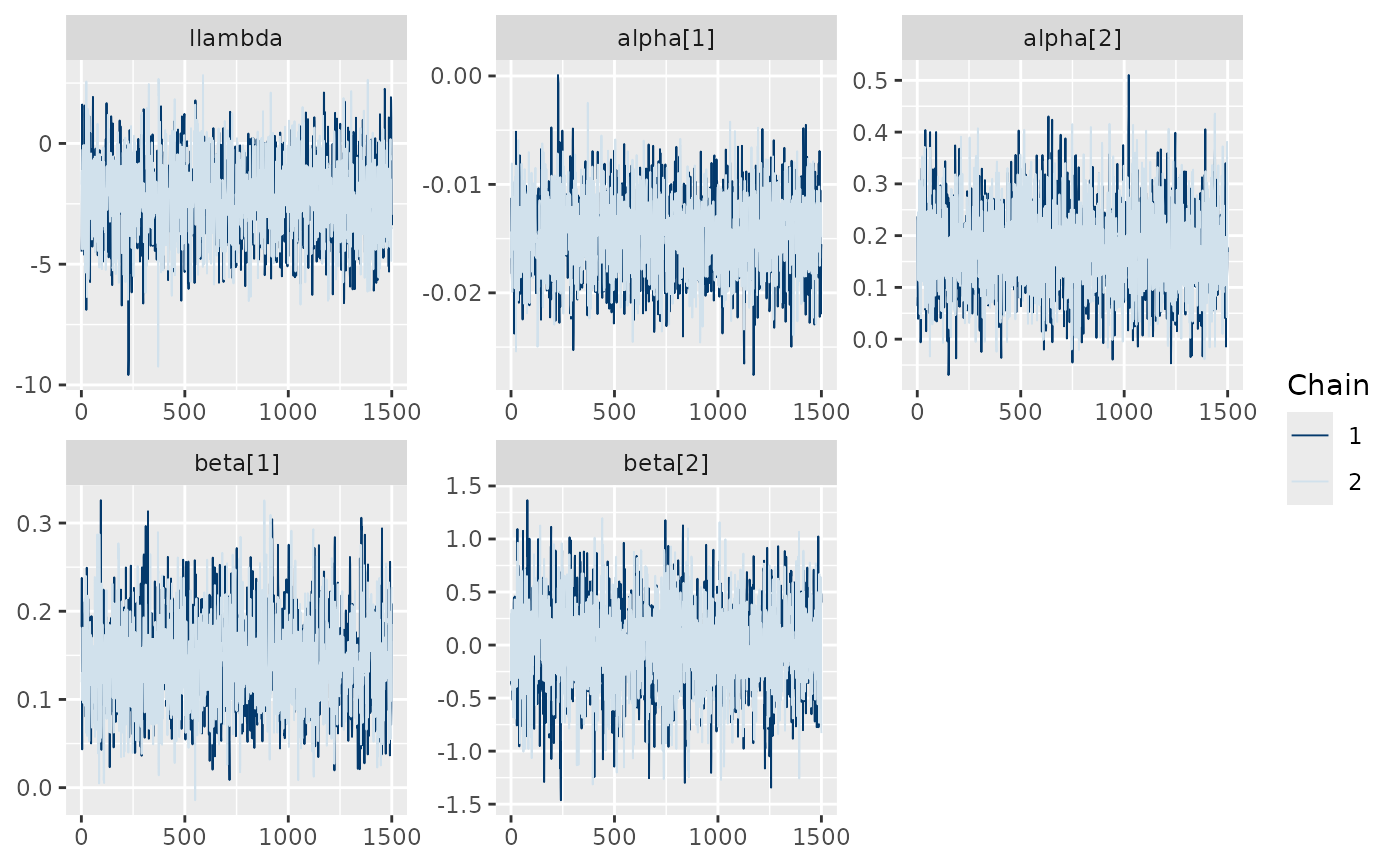
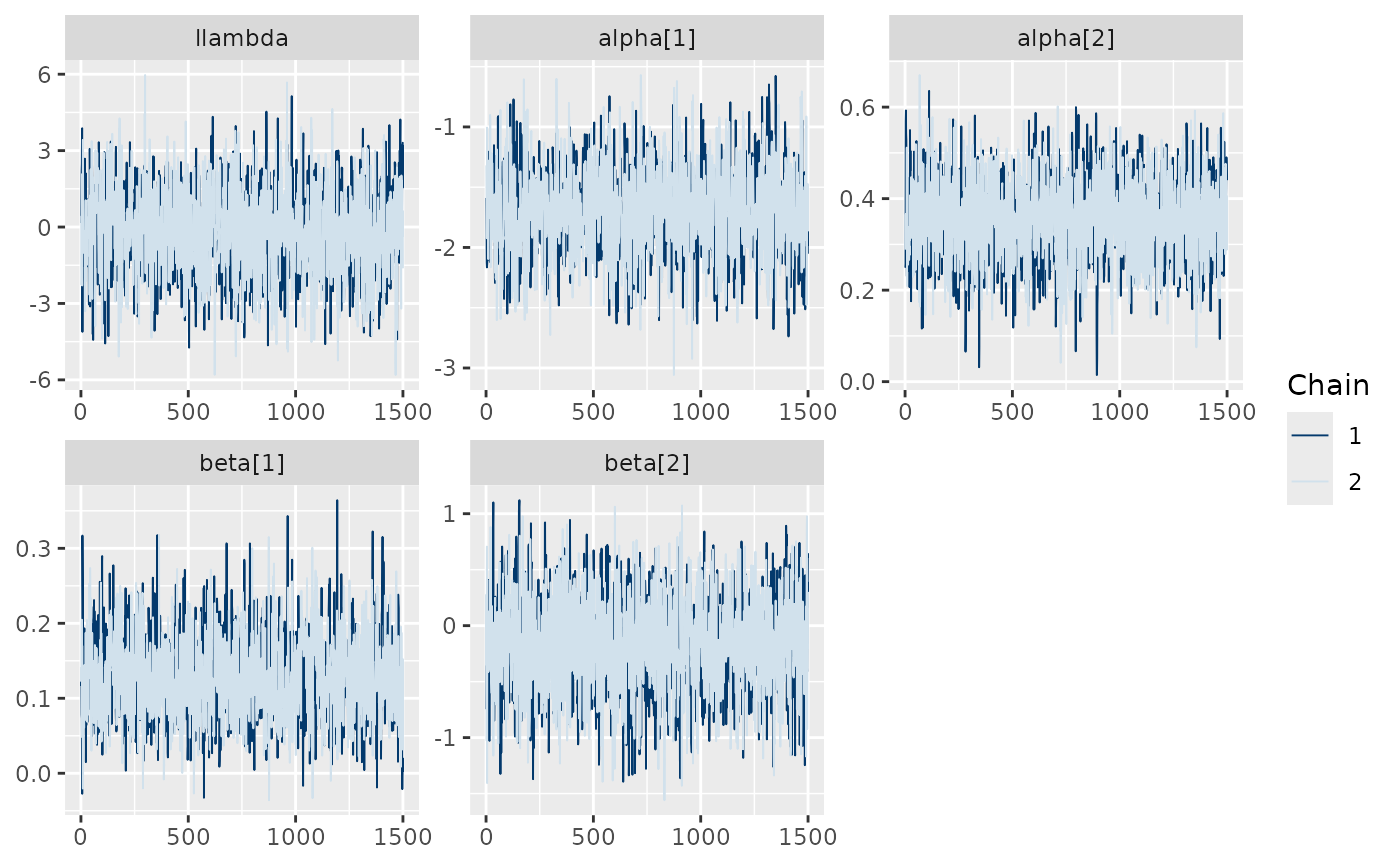
Deploying to gh-pages from @ Jiangyue-Wang/MortalMove@563e27e3fafab5bc3a241301246cef460ec37dc8 🚀

diff --git a/articles/fit-model-cmdstan.html b/articles/fit-model-cmdstan.html
@@ -129,30 +129,30 @@
 <span><span class="co">#&gt; - Online documentation and vignettes at mc-stan.org/loo</span></span>
 <span><span class="co">#&gt; - As of v2.0.0 loo defaults to 1 core but we recommend using as many as possible. Use the 'cores' argument or set options(mc.cores = NUM_CORES) for an entire session.</span></span>
 <span><span class="co">#&gt; <span style="color: #949494;"># A tibble: 5 × 5</span></span></span>
-<span><span class="co">#&gt;   variable    mean      sd      q5      q95</span></span>
-<span><span class="co">#&gt;   <span style="color: #949494; font-style: italic;">&lt;chr&gt;</span>      <span style="color: #949494; font-style: italic;">&lt;dbl&gt;</span>   <span style="color: #949494; font-style: italic;">&lt;dbl&gt;</span>   <span style="color: #949494; font-style: italic;">&lt;dbl&gt;</span>    <span style="color: #949494; font-style: italic;">&lt;dbl&gt;</span></span></span>
-<span><span class="co">#&gt; <span style="color: #BCBCBC;">1</span> beta[1]   0.143  0.050<span style="text-decoration: underline;">8</span>   0.062<span style="text-decoration: underline;">4</span>  0.230  </span></span>
-<span><span class="co">#&gt; <span style="color: #BCBCBC;">2</span> beta[2]  -<span style="color: #BB0000;">0.022</span><span style="color: #BB0000; text-decoration: underline;">8</span> 0.421   -<span style="color: #BB0000;">0.734</span>   0.651  </span></span>
-<span><span class="co">#&gt; <span style="color: #BCBCBC;">3</span> alpha[1] -<span style="color: #BB0000;">0.014</span><span style="color: #BB0000; text-decoration: underline;">6</span> 0.003<span style="text-decoration: underline;">62</span> -<span style="color: #BB0000;">0.020</span><span style="color: #BB0000; text-decoration: underline;">5</span> -<span style="color: #BB0000;">0.008</span><span style="color: #BB0000; text-decoration: underline;">65</span></span></span>
-<span><span class="co">#&gt; <span style="color: #BCBCBC;">4</span> alpha[2]  0.176  0.082<span style="text-decoration: underline;">8</span>   0.042<span style="text-decoration: underline;">4</span>  0.317  </span></span>
-<span><span class="co">#&gt; <span style="color: #BCBCBC;">5</span> llambda  -<span style="color: #BB0000;">2.27</span>   1.61    -<span style="color: #BB0000;">4.92</span>    0.329  </span></span>
+<span><span class="co">#&gt;   variable   mean     sd      q5    q95</span></span>
+<span><span class="co">#&gt;   <span style="color: #949494; font-style: italic;">&lt;chr&gt;</span>     <span style="color: #949494; font-style: italic;">&lt;dbl&gt;</span>  <span style="color: #949494; font-style: italic;">&lt;dbl&gt;</span>   <span style="color: #949494; font-style: italic;">&lt;dbl&gt;</span>  <span style="color: #949494; font-style: italic;">&lt;dbl&gt;</span></span></span>
+<span><span class="co">#&gt; <span style="color: #BCBCBC;">1</span> beta[1]   0.130 0.054<span style="text-decoration: underline;">8</span>  0.046<span style="text-decoration: underline;">8</span>  0.223</span></span>
+<span><span class="co">#&gt; <span style="color: #BCBCBC;">2</span> beta[2]  -<span style="color: #BB0000;">0.169</span> 0.422  -<span style="color: #BB0000;">0.882</span>   0.519</span></span>
+<span><span class="co">#&gt; <span style="color: #BCBCBC;">3</span> alpha[1] -<span style="color: #BB0000;">1.71</span>  0.348  -<span style="color: #BB0000;">2.26</span>   -<span style="color: #BB0000;">1.13</span> </span></span>
+<span><span class="co">#&gt; <span style="color: #BCBCBC;">4</span> alpha[2]  0.354 0.088<span style="text-decoration: underline;">7</span>  0.208   0.496</span></span>
+<span><span class="co">#&gt; <span style="color: #BCBCBC;">5</span> llambda  -<span style="color: #BB0000;">0.195</span> 1.67   -<span style="color: #BB0000;">3.01</span>    2.49 </span></span>
 <span><span class="co">#&gt; </span></span>
 <span><span class="co">#&gt; --- Rhat and ESS Summary ---</span></span>
 <span><span class="co">#&gt; <span style="color: #949494;"># A tibble: 5 × 4</span></span></span>
 <span><span class="co">#&gt;   variable  rhat ess_bulk ess_tail</span></span>
 <span><span class="co">#&gt;   <span style="color: #949494; font-style: italic;">&lt;chr&gt;</span>    <span style="color: #949494; font-style: italic;">&lt;dbl&gt;</span>    <span style="color: #949494; font-style: italic;">&lt;dbl&gt;</span>    <span style="color: #949494; font-style: italic;">&lt;dbl&gt;</span></span></span>
-<span><span class="co">#&gt; <span style="color: #BCBCBC;">1</span> beta[1]  1.00     <span style="text-decoration: underline;">2</span>065.    <span style="text-decoration: underline;">1</span>799.</span></span>
-<span><span class="co">#&gt; <span style="color: #BCBCBC;">2</span> beta[2]  1.00     <span style="text-decoration: underline;">1</span>725.    <span style="text-decoration: underline;">1</span>577.</span></span>
-<span><span class="co">#&gt; <span style="color: #BCBCBC;">3</span> alpha[1] 1.000    <span style="text-decoration: underline;">2</span>202.    <span style="text-decoration: underline;">1</span>880.</span></span>
-<span><span class="co">#&gt; <span style="color: #BCBCBC;">4</span> alpha[2] 1.00     <span style="text-decoration: underline;">2</span>153.    <span style="text-decoration: underline;">1</span>706.</span></span>
-<span><span class="co">#&gt; <span style="color: #BCBCBC;">5</span> llambda  1.00     <span style="text-decoration: underline;">2</span>160.    <span style="text-decoration: underline;">1</span>913.</span></span>
+<span><span class="co">#&gt; <span style="color: #BCBCBC;">1</span> beta[1]   1.00    <span style="text-decoration: underline;">1</span>605.    <span style="text-decoration: underline;">1</span>934.</span></span>
+<span><span class="co">#&gt; <span style="color: #BCBCBC;">2</span> beta[2]   1.00    <span style="text-decoration: underline;">2</span>407.    <span style="text-decoration: underline;">1</span>981.</span></span>
+<span><span class="co">#&gt; <span style="color: #BCBCBC;">3</span> alpha[1]  1.00    <span style="text-decoration: underline;">1</span>558.    <span style="text-decoration: underline;">1</span>634.</span></span>
+<span><span class="co">#&gt; <span style="color: #BCBCBC;">4</span> alpha[2]  1.00    <span style="text-decoration: underline;">2</span>055.    <span style="text-decoration: underline;">1</span>564.</span></span>
+<span><span class="co">#&gt; <span style="color: #BCBCBC;">5</span> llambda   1.00    <span style="text-decoration: underline;">1</span>634.    <span style="text-decoration: underline;">1</span>593.</span></span>
 <span><span class="co">#&gt; </span></span>
 <span><span class="co">#&gt; Computed from 3000 by 100 log-likelihood matrix.</span></span>
 <span><span class="co">#&gt; </span></span>
 <span><span class="co">#&gt;          Estimate   SE</span></span>
-<span><span class="co">#&gt; elpd_loo   -139.7 25.6</span></span>
-<span><span class="co">#&gt; p_loo         2.8  0.6</span></span>
-<span><span class="co">#&gt; looic       279.4 51.3</span></span>
+<span><span class="co">#&gt; elpd_loo   -132.9 25.1</span></span>
+<span><span class="co">#&gt; p_loo         2.3  0.5</span></span>
+<span><span class="co">#&gt; looic       265.7 50.1</span></span>
 <span><span class="co">#&gt; ------</span></span>
 <span><span class="co">#&gt; MCSE of elpd_loo is 0.0.</span></span>
 <span><span class="co">#&gt; MCSE and ESS estimates assume independent draws (r_eff=1).</span></span>
@@ -163,7 +163,7 @@
 <span><span class="co">#&gt; Posterior predictive p-value summary:</span></span>
 <span><span class="co">#&gt;   variable p_value</span></span>
 <span><span class="co">#&gt; 1   Failed  0.3000</span></span>
-<span><span class="co">#&gt; 2 Censored  0.7625</span></span>
+<span><span class="co">#&gt; 2 Censored  0.7125</span></span>
 <span><span class="fu">bayesplot</span><span class="fu">::</span><span class="fu"><a href="https://mc-stan.org/bayesplot/reference/MCMC-traces.html" class="external-link">mcmc_trace</a></span><span class="op">(</span><span class="va">fit</span><span class="op">$</span><span class="fu">draws</span><span class="op">(</span><span class="fu"><a href="https://rdrr.io/r/base/c.html" class="external-link">c</a></span><span class="op">(</span><span class="st">"llambda"</span>,<span class="st">"alpha"</span>,<span class="st">"beta"</span><span class="op">)</span><span class="op">)</span><span class="op">)</span></span></code></pre></div>
 <p><img src="fit-model-cmdstan_files/figure-html/unnamed-chunk-5-1.png" width="700"></p>
 </div>
@@ -181,48 +181,48 @@
 <span>  data <span class="op">=</span> <span class="va">sim</span>,</span>
 <span>  chains <span class="op">=</span> <span class="fl">2</span>,</span>
 <span>  parallel_chains <span class="op">=</span> <span class="fl">2</span>,</span>
-<span>  iter_warmup <span class="op">=</span> <span class="fl">50</span>,</span>
-<span>  iter_sampling <span class="op">=</span> <span class="fl">150</span>,</span>
+<span>  iter_warmup <span class="op">=</span> <span class="fl">500</span>,</span>
+<span>  iter_sampling <span class="op">=</span> <span class="fl">1500</span>,</span>
 <span>  seed <span class="op">=</span> <span class="fl">123</span></span>
 <span><span class="op">)</span></span></code></pre></div>
 <div class="sourceCode" id="cb6"><pre class="downlit sourceCode r">
 <code class="sourceCode R"><span><span class="fu"><a href="../reference/diagnostic_fit.html">diagnostic_fit</a></span><span class="op">(</span><span class="va">fit_spat</span>, plot <span class="op">=</span> <span class="cn">TRUE</span>, observed_y <span class="op">=</span> <span class="fu"><a href="https://rdrr.io/r/base/colSums.html" class="external-link">rowSums</a></span><span class="op">(</span><span class="va">sim</span><span class="op">$</span><span class="va">time_step</span>, na.rm <span class="op">=</span> <span class="cn">TRUE</span><span class="op">)</span>, delta <span class="op">=</span> <span class="va">sim</span><span class="op">$</span><span class="va">delta</span><span class="op">)</span></span>
 <span><span class="co">#&gt; <span style="color: #949494;"># A tibble: 5 × 5</span></span></span>
-<span><span class="co">#&gt;   variable    mean      sd      q5     q95</span></span>
-<span><span class="co">#&gt;   <span style="color: #949494; font-style: italic;">&lt;chr&gt;</span>      <span style="color: #949494; font-style: italic;">&lt;dbl&gt;</span>   <span style="color: #949494; font-style: italic;">&lt;dbl&gt;</span>   <span style="color: #949494; font-style: italic;">&lt;dbl&gt;</span>   <span style="color: #949494; font-style: italic;">&lt;dbl&gt;</span></span></span>
-<span><span class="co">#&gt; <span style="color: #BCBCBC;">1</span> beta[1]   0.139  0.056<span style="text-decoration: underline;">4</span>   0.053<span style="text-decoration: underline;">6</span>  0.243 </span></span>
-<span><span class="co">#&gt; <span style="color: #BCBCBC;">2</span> beta[2]   0.036<span style="text-decoration: underline;">3</span> 0.424   -<span style="color: #BB0000;">0.608</span>   0.728 </span></span>
-<span><span class="co">#&gt; <span style="color: #BCBCBC;">3</span> alpha[1] -<span style="color: #BB0000;">0.018</span><span style="color: #BB0000; text-decoration: underline;">5</span> 0.003<span style="text-decoration: underline;">33</span> -<span style="color: #BB0000;">0.023</span><span style="color: #BB0000; text-decoration: underline;">3</span> -<span style="color: #BB0000;">0.012</span><span style="color: #BB0000; text-decoration: underline;">6</span></span></span>
-<span><span class="co">#&gt; <span style="color: #BCBCBC;">4</span> alpha[2]  0.214  0.118    0.010<span style="text-decoration: underline;">0</span>  0.403 </span></span>
-<span><span class="co">#&gt; <span style="color: #BCBCBC;">5</span> llambda  -<span style="color: #BB0000;">0.881</span>  1.22    -<span style="color: #BB0000;">3.18</span>    0.828 </span></span>
+<span><span class="co">#&gt;   variable    mean     sd       q5    q95</span></span>
+<span><span class="co">#&gt;   <span style="color: #949494; font-style: italic;">&lt;chr&gt;</span>      <span style="color: #949494; font-style: italic;">&lt;dbl&gt;</span>  <span style="color: #949494; font-style: italic;">&lt;dbl&gt;</span>    <span style="color: #949494; font-style: italic;">&lt;dbl&gt;</span>  <span style="color: #949494; font-style: italic;">&lt;dbl&gt;</span></span></span>
+<span><span class="co">#&gt; <span style="color: #BCBCBC;">1</span> beta[1]   0.069<span style="text-decoration: underline;">7</span> 0.059<span style="text-decoration: underline;">3</span> -<span style="color: #BB0000;">0.025</span><span style="color: #BB0000; text-decoration: underline;">2</span>   0.171</span></span>
+<span><span class="co">#&gt; <span style="color: #BCBCBC;">2</span> beta[2]  -<span style="color: #BB0000;">0.316</span>  0.416  -<span style="color: #BB0000;">0.988</span>    0.355</span></span>
+<span><span class="co">#&gt; <span style="color: #BCBCBC;">3</span> alpha[1] -<span style="color: #BB0000;">1.46</span>   0.385  -<span style="color: #BB0000;">2.09</span>    -<span style="color: #BB0000;">0.828</span></span></span>
+<span><span class="co">#&gt; <span style="color: #BCBCBC;">4</span> alpha[2]  0.330  0.200  -<span style="color: #BB0000;">0.002</span><span style="color: #BB0000; text-decoration: underline;">11</span>  0.656</span></span>
+<span><span class="co">#&gt; <span style="color: #BCBCBC;">5</span> llambda  -<span style="color: #BB0000;">0.515</span>  1.72   -<span style="color: #BB0000;">3.39</span>     2.29 </span></span>
 <span><span class="co">#&gt; </span></span>
 <span><span class="co">#&gt; --- Rhat and ESS Summary ---</span></span>
 <span><span class="co">#&gt; <span style="color: #949494;"># A tibble: 5 × 4</span></span></span>
 <span><span class="co">#&gt;   variable  rhat ess_bulk ess_tail</span></span>
 <span><span class="co">#&gt;   <span style="color: #949494; font-style: italic;">&lt;chr&gt;</span>    <span style="color: #949494; font-style: italic;">&lt;dbl&gt;</span>    <span style="color: #949494; font-style: italic;">&lt;dbl&gt;</span>    <span style="color: #949494; font-style: italic;">&lt;dbl&gt;</span></span></span>
-<span><span class="co">#&gt; <span style="color: #BCBCBC;">1</span> beta[1]   1.02   389.      138. </span></span>
-<span><span class="co">#&gt; <span style="color: #BCBCBC;">2</span> beta[2]   1.12    14.5      29.0</span></span>
-<span><span class="co">#&gt; <span style="color: #BCBCBC;">3</span> alpha[1]  1.25     6.49     19.5</span></span>
-<span><span class="co">#&gt; <span style="color: #BCBCBC;">4</span> alpha[2]  1.04    30.7      80.4</span></span>
-<span><span class="co">#&gt; <span style="color: #BCBCBC;">5</span> llambda   1.75     3.33     15.0</span></span>
+<span><span class="co">#&gt; <span style="color: #BCBCBC;">1</span> beta[1]  1.000    <span style="text-decoration: underline;">5</span>544.    <span style="text-decoration: underline;">2</span>325.</span></span>
+<span><span class="co">#&gt; <span style="color: #BCBCBC;">2</span> beta[2]  1.00     <span style="text-decoration: underline;">6</span>495.    <span style="text-decoration: underline;">2</span>025.</span></span>
+<span><span class="co">#&gt; <span style="color: #BCBCBC;">3</span> alpha[1] 1.00     <span style="text-decoration: underline;">3</span>214.    <span style="text-decoration: underline;">2</span>295.</span></span>
+<span><span class="co">#&gt; <span style="color: #BCBCBC;">4</span> alpha[2] 1.000    <span style="text-decoration: underline;">4</span>593.    <span style="text-decoration: underline;">2</span>214.</span></span>
+<span><span class="co">#&gt; <span style="color: #BCBCBC;">5</span> llambda  1.00     <span style="text-decoration: underline;">3</span>087.    <span style="text-decoration: underline;">2</span>266.</span></span>
 <span><span class="co">#&gt; </span></span>
-<span><span class="co">#&gt; Computed from 300 by 100 log-likelihood matrix.</span></span>
+<span><span class="co">#&gt; Computed from 3000 by 100 log-likelihood matrix.</span></span>
 <span><span class="co">#&gt; </span></span>
 <span><span class="co">#&gt;          Estimate   SE</span></span>
-<span><span class="co">#&gt; elpd_loo   -137.5 25.4</span></span>
-<span><span class="co">#&gt; p_loo         8.5  1.8</span></span>
-<span><span class="co">#&gt; looic       274.9 50.9</span></span>
+<span><span class="co">#&gt; elpd_loo   -125.2 24.3</span></span>
+<span><span class="co">#&gt; p_loo         6.7  1.7</span></span>
+<span><span class="co">#&gt; looic       250.5 48.6</span></span>
 <span><span class="co">#&gt; ------</span></span>
-<span><span class="co">#&gt; MCSE of elpd_loo is 0.2.</span></span>
+<span><span class="co">#&gt; MCSE of elpd_loo is 0.1.</span></span>
 <span><span class="co">#&gt; MCSE and ESS estimates assume independent draws (r_eff=1).</span></span>
 <span><span class="co">#&gt; </span></span>
-<span><span class="co">#&gt; All Pareto k estimates are good (k &lt; 0.6).</span></span>
+<span><span class="co">#&gt; All Pareto k estimates are good (k &lt; 0.7).</span></span>
 <span><span class="co">#&gt; See help('pareto-k-diagnostic') for details.</span></span>
 <span><span class="co">#&gt; </span></span>
 <span><span class="co">#&gt; Posterior predictive p-value summary:</span></span>
 <span><span class="co">#&gt;   variable p_value</span></span>
-<span><span class="co">#&gt; 1   Failed  0.3000</span></span>
-<span><span class="co">#&gt; 2 Censored  0.7625</span></span>
+<span><span class="co">#&gt; 1   Failed    0.40</span></span>
+<span><span class="co">#&gt; 2 Censored    0.65</span></span>
 <span><span class="fu">bayesplot</span><span class="fu">::</span><span class="fu"><a href="https://mc-stan.org/bayesplot/reference/MCMC-traces.html" class="external-link">mcmc_trace</a></span><span class="op">(</span><span class="va">fit_spat</span><span class="op">$</span><span class="fu">draws</span><span class="op">(</span><span class="fu"><a href="https://rdrr.io/r/base/c.html" class="external-link">c</a></span><span class="op">(</span><span class="st">"llambda"</span>,<span class="st">"alpha"</span>,<span class="st">"beta"</span><span class="op">)</span><span class="op">)</span><span class="op">)</span></span></code></pre></div>
 <p><img src="fit-model-cmdstan_files/figure-html/unnamed-chunk-8-1.png" width="700"></p>
 </div>

diff --git a/articles/prepare-data-for-stan.html b/articles/prepare-data-for-stan.html
@@ -105,13 +105,13 @@ presence of that season. All values should be numeric.</li>
 hunter density (<code>hunter</code>) as habitat covariates.</p>
 <div class="sourceCode" id="cb2"><pre class="downlit sourceCode r">
 <code class="sourceCode R"><span><span class="fu"><a href="https://rdrr.io/r/utils/head.html" class="external-link">head</a></span><span class="op">(</span><span class="va">df</span><span class="op">)</span></span>
-<span><span class="co">#&gt;           x         y animal_id timestamp prey_avail       hunter</span></span>
-<span><span class="co">#&gt; 1 992.94402 583.03060         1         1   448.6998 1.930454e-03</span></span>
-<span><span class="co">#&gt; 2 253.09899 165.02589         1         2   585.7532 2.273980e-18</span></span>
-<span><span class="co">#&gt; 3  49.53844  96.30111         1         3   471.9762 3.723363e-25</span></span>
-<span><span class="co">#&gt; 4 686.32495 428.61309         1         4   401.6691 4.393693e-02</span></span>
-<span><span class="co">#&gt; 5 786.92735 355.76157         1         5   524.8925 3.726653e-06</span></span>
-<span><span class="co">#&gt; 6 353.60608 844.93354         1         6   477.7169 1.637377e-07</span></span></code></pre></div>
+<span><span class="co">#&gt;           x        y animal_id timestamp prey_avail   hunter</span></span>
+<span><span class="co">#&gt; 1 495.44004 320.3625         1         1   5.179907 5.976312</span></span>
+<span><span class="co">#&gt; 2  85.06545 219.6892         1         2   4.884911 4.535864</span></span>
+<span><span class="co">#&gt; 3 329.58052 333.4154         1         3   5.230458 5.291962</span></span>
+<span><span class="co">#&gt; 4 215.87068 260.6982         1         4   5.230458 5.291962</span></span>
+<span><span class="co">#&gt; 5 109.47462 271.1017         1         5   4.884911 4.535864</span></span>
+<span><span class="co">#&gt; 6 157.70392 252.8365         1         6   4.884911 4.535864</span></span></code></pre></div>
 <p>The second one should have the following columns: -
 <code>animal_id</code>: unique identifier for each individual -
 <code>fate</code>: fate of the individual (e.g., 0 for alive, 1 for
@@ -142,20 +142,13 @@ function does this for you. Further, we need to change column name
 <span><span class="va">df</span> <span class="op">&lt;-</span> <span class="va">df</span> <span class="op"><a href="https://magrittr.tidyverse.org/reference/pipe.html" class="external-link">%&gt;%</a></span> </span>
 <span>  <span class="fu">dplyr</span><span class="fu">::</span><span class="fu"><a href="https://dplyr.tidyverse.org/reference/rename.html" class="external-link">rename</a></span><span class="op">(</span>delta <span class="op">=</span> <span class="va">fate</span><span class="op">)</span></span>
 <span><span class="fu"><a href="https://rdrr.io/r/utils/head.html" class="external-link">head</a></span><span class="op">(</span><span class="va">df</span><span class="op">)</span></span>
-<span><span class="co">#&gt;           x         y animal_id timestamp prey_avail       hunter age sex_m</span></span>
-<span><span class="co">#&gt; 1 992.94402 583.03060         1         1   448.6998 1.930454e-03  16     0</span></span>
-<span><span class="co">#&gt; 2 253.09899 165.02589         1         2   585.7532 2.273980e-18  16     0</span></span>
-<span><span class="co">#&gt; 3  49.53844  96.30111         1         3   471.9762 3.723363e-25  16     0</span></span>
-<span><span class="co">#&gt; 4 686.32495 428.61309         1         4   401.6691 4.393693e-02  16     0</span></span>
-<span><span class="co">#&gt; 5 786.92735 355.76157         1         5   524.8925 3.726653e-06  16     0</span></span>
-<span><span class="co">#&gt; 6 353.60608 844.93354         1         6   477.7169 1.637377e-07  16     0</span></span>
-<span><span class="co">#&gt;   delta</span></span>
-<span><span class="co">#&gt; 1     0</span></span>
-<span><span class="co">#&gt; 2     0</span></span>
-<span><span class="co">#&gt; 3     0</span></span>
-<span><span class="co">#&gt; 4     0</span></span>
-<span><span class="co">#&gt; 5     0</span></span>
-<span><span class="co">#&gt; 6     0</span></span></code></pre></div>
+<span><span class="co">#&gt;           x        y animal_id timestamp prey_avail   hunter age sex_m delta</span></span>
+<span><span class="co">#&gt; 1 495.44004 320.3625         1         1   5.179907 5.976312  16     0     0</span></span>
+<span><span class="co">#&gt; 2  85.06545 219.6892         1         2   4.884911 4.535864  16     0     0</span></span>
+<span><span class="co">#&gt; 3 329.58052 333.4154         1         3   5.230458 5.291962  16     0     0</span></span>
+<span><span class="co">#&gt; 4 215.87068 260.6982         1         4   5.230458 5.291962  16     0     0</span></span>
+<span><span class="co">#&gt; 5 109.47462 271.1017         1         5   4.884911 4.535864  16     0     0</span></span>
+<span><span class="co">#&gt; 6 157.70392 252.8365         1         6   4.884911 4.535864  16     0     0</span></span></code></pre></div>
 <p>Next, we prepare the data for modeling. The
 <code>prepare_data_for_stan()</code> function does this for you. You can
 specify which habitat covariates and individual covariates you want to
